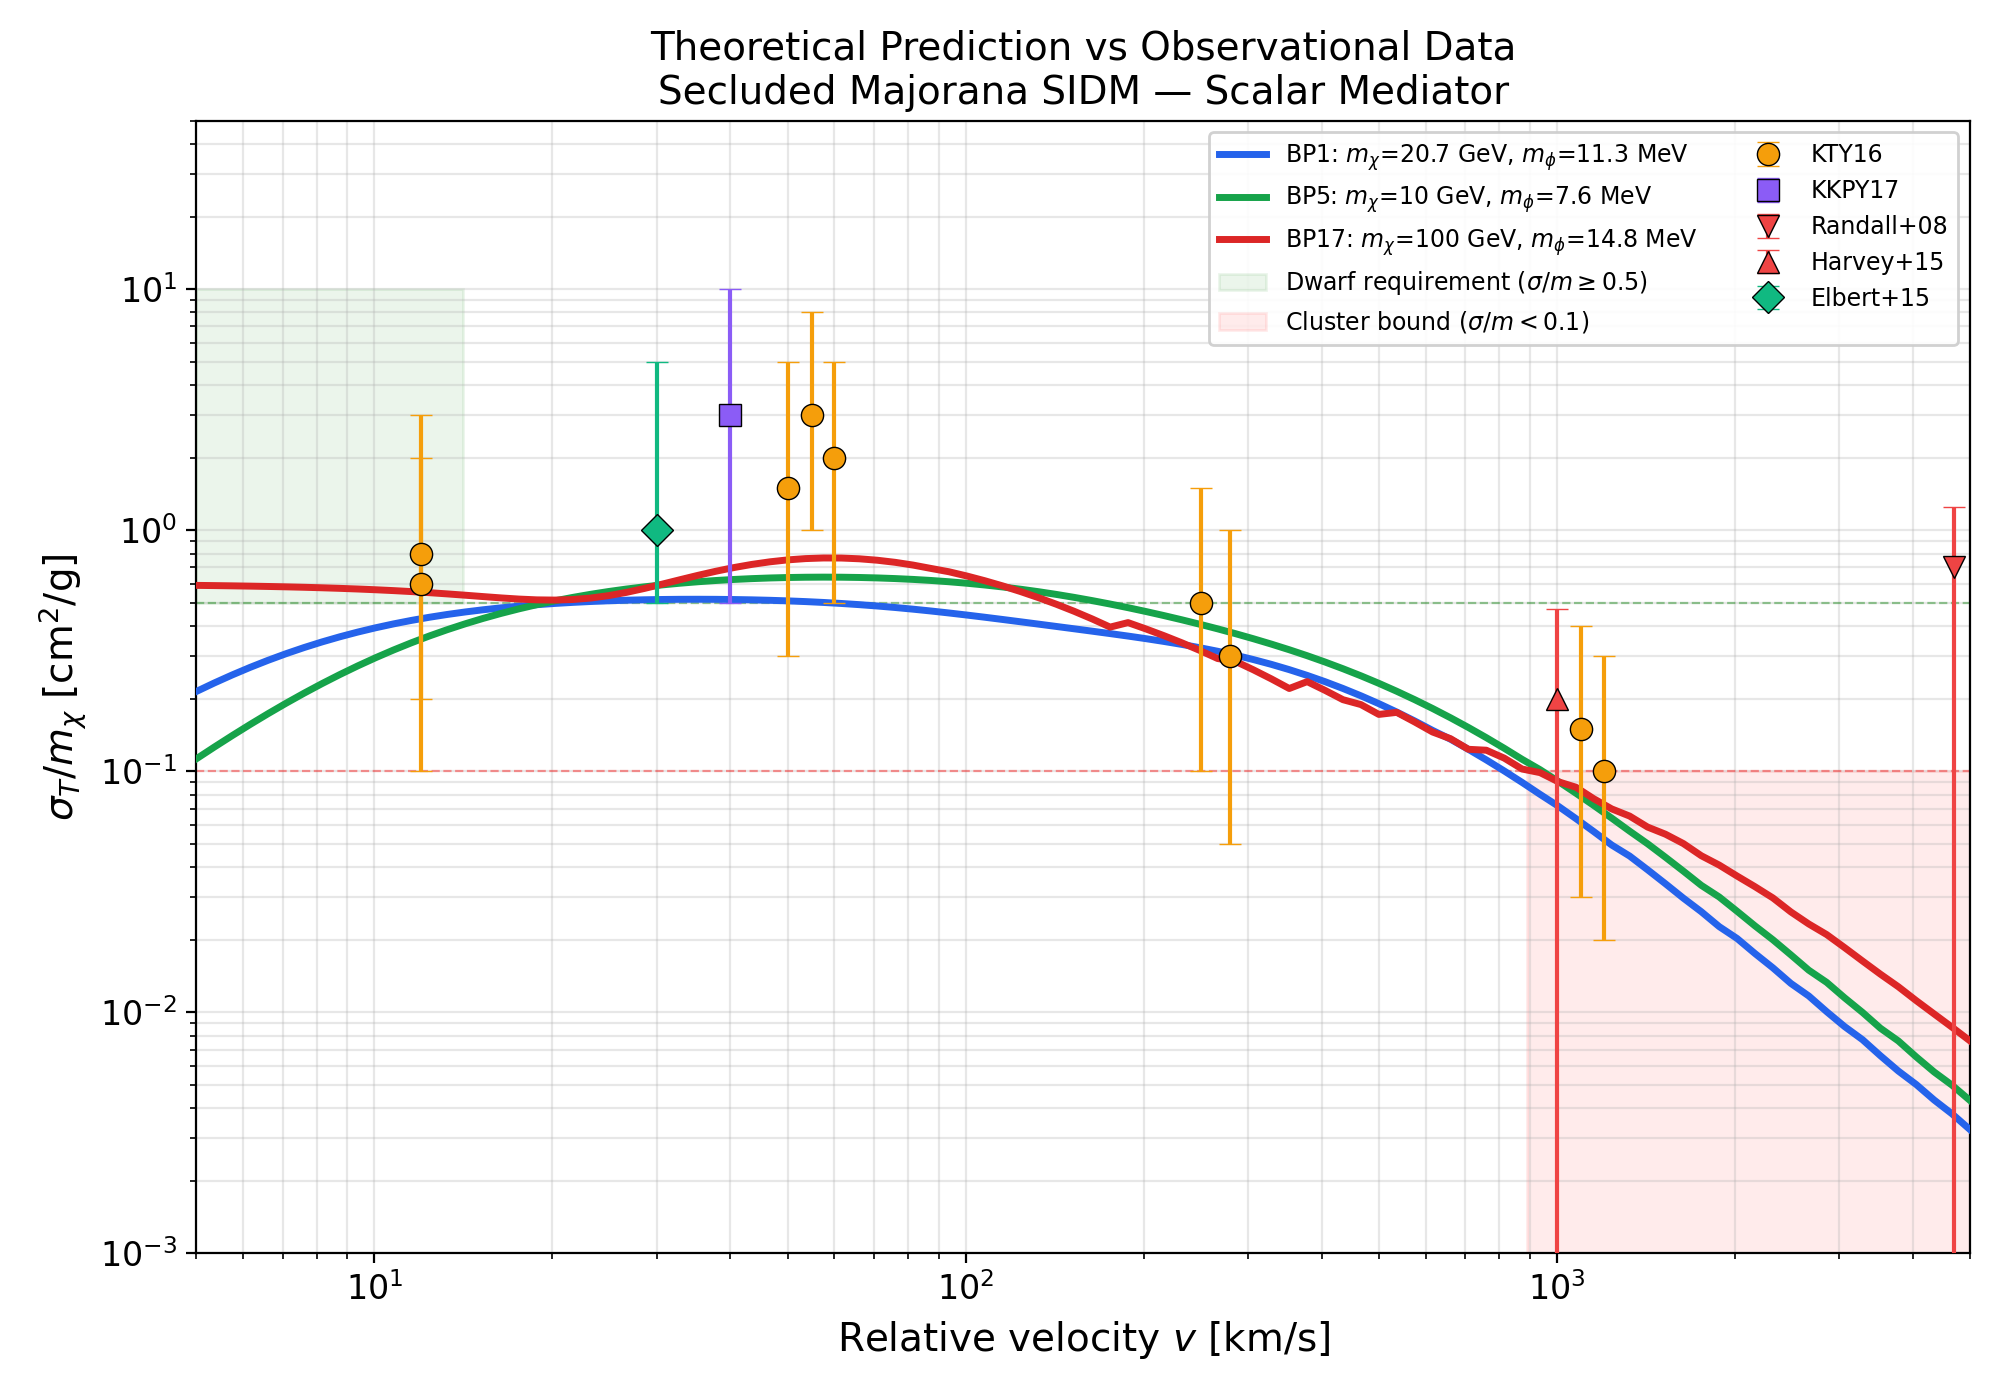
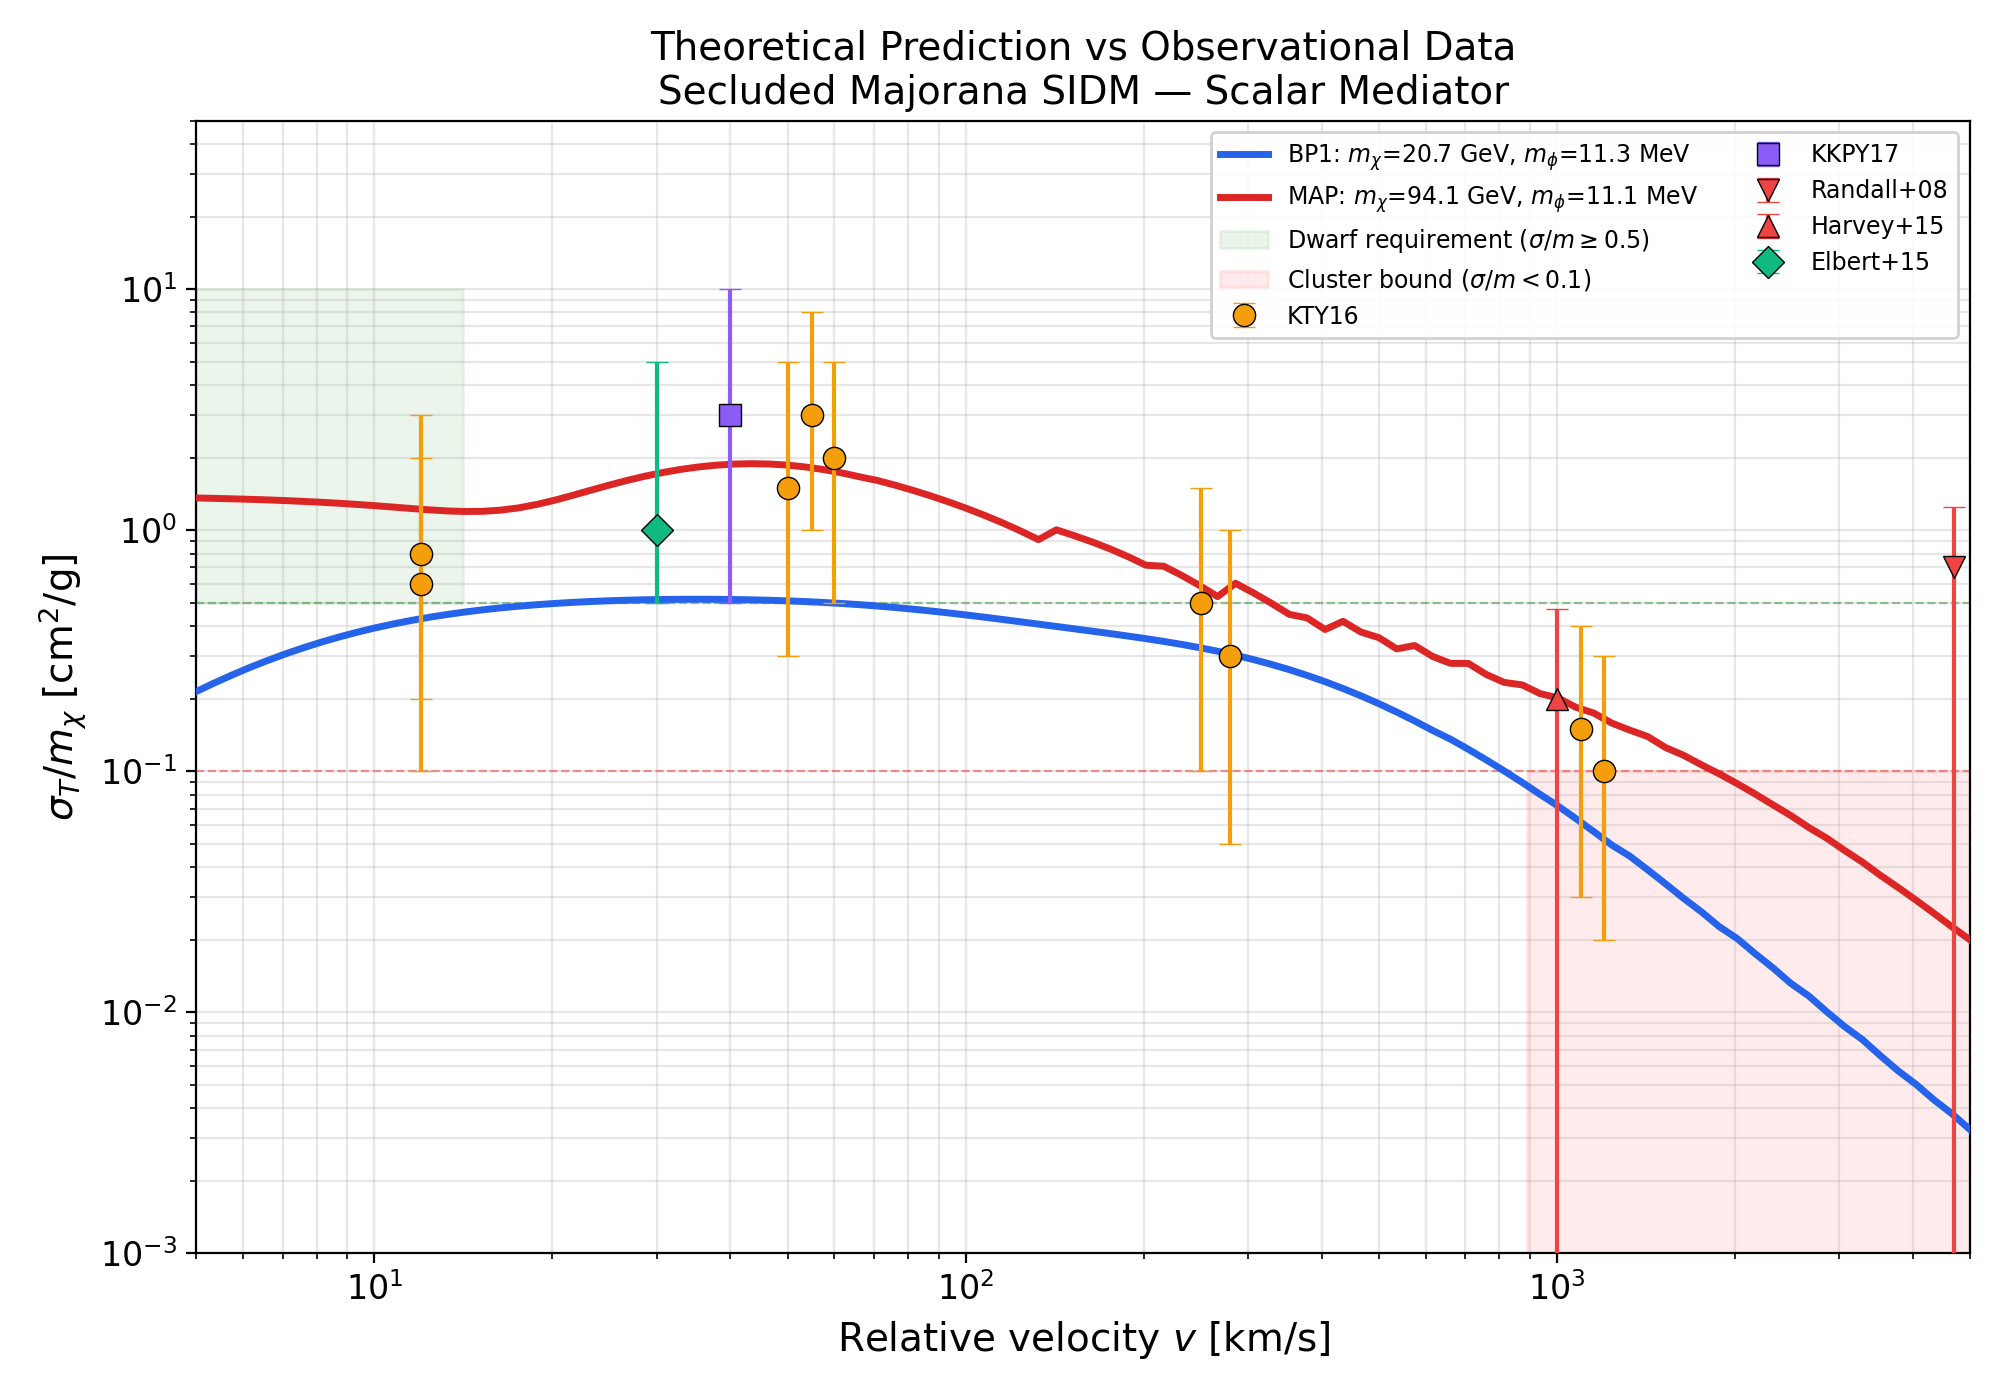
observations: dynamic benchmarks from config + Harvey default fix
- observational_comparison.py & opusB: plot loop now iterates
  BENCHMARKS from config.json (was hardcoded BP1/BP5/BP17)
- Compatibility check runs for ALL benchmarks (BP1 + MAP)
- Harvey+15 _DEFAULT_OBS fallback: 1500 -> 1000 in all 3 scripts
- Fresh v33 plot: BP1 (11/13) + MAP (13/13 compatible)

diff --git a/observations/observational_comparison.py b/observations/observational_comparison.py
@@ -61,7 +61,7 @@ _DEFAULT_OBS = [
     ("Abell 2537",        1100,   0.15, 0.03, 0.4,  "KTY16"),
     ("Diverse RC band",     40,   3.0,  0.5,  10.0, "KKPY17"),
     ("Bullet Cluster",    4700,   0.7,  0.0,  1.25, "Randall+08"),
-    ("72 cluster mergers", 1500,  0.2,  0.0,  0.47, "Harvey+15"),
+    ("72 cluster mergers", 1000,  0.2,  0.0,  0.47, "Harvey+15"),
     ("TBTF dwarfs",         30,   1.0,  0.5,  5.0,  "Elbert+15"),
 ]
 
@@ -132,42 +132,39 @@ def main():
         print(f"  {name:<25} {v:10.0f} {sm:8.2f} {lo:8.2f} {hi:8.2f} {ref:<12}")
     print()
 
-    # --- Compatibility check ---
-    print("  COMPATIBILITY CHECK (BP1 vs observations):")
-    print("  " + "-" * 60)
-    bp1_mc, bp1_mp, bp1_alpha = 20.69, 11.34e-3, 1.048e-3
-    n_compat = 0
-    n_total = len(OBSERVATIONS)
-    for name, v, sm_obs, lo, hi, ref in OBSERVATIONS:
-        sm_theory = sigma_T_vpm(bp1_mc, bp1_mp, bp1_alpha, float(v))
-        in_range = lo <= sm_theory <= hi
-        if in_range:
-            n_compat += 1
-            status = "COMPATIBLE"
-        else:
-            if sm_theory < lo:
-                status = f"BELOW (theory={sm_theory:.3f} < {lo:.2f})"
+    # --- Compatibility check (all benchmarks) ---
+    for bp_name, bp_mc, bp_mp, bp_alpha in BENCHMARKS:
+        print(f"  COMPATIBILITY CHECK ({bp_name} vs observations):")
+        print("  " + "-" * 60)
+        n_compat = 0
+        n_total = len(OBSERVATIONS)
+        for name, v, sm_obs, lo, hi, ref in OBSERVATIONS:
+            sm_theory = sigma_T_vpm(bp_mc, bp_mp, bp_alpha, float(v))
+            in_range = lo <= sm_theory <= hi
+            if in_range:
+                n_compat += 1
+                status = "COMPATIBLE"
             else:
-                status = f"ABOVE (theory={sm_theory:.3f} > {hi:.2f})"
-        print(f"  {name:<25} v={v:5.0f}  theory={sm_theory:.4f}  obs=[{lo:.2f},{hi:.2f}]  {status}")
+                if sm_theory < lo:
+                    status = f"BELOW (theory={sm_theory:.3f} < {lo:.2f})"
+                else:
+                    status = f"ABOVE (theory={sm_theory:.3f} > {hi:.2f})"
+            print(f"  {name:<25} v={v:5.0f}  theory={sm_theory:.4f}  obs=[{lo:.2f},{hi:.2f}]  {status}")
 
-    print()
-    print(f"  BP1 compatible with {n_compat}/{n_total} observations")
-    print()
+        print()
+        print(f"  {bp_name} compatible with {n_compat}/{n_total} observations")
+        print()
 
     # --- Generate Figure 3 ---
     fig, ax = plt.subplots(1, 1, figsize=(10, 7))
 
-    # Plot theoretical curves
-    colors = {'BP1': '#2563EB', 'BP5': '#16A34A', 'BP17': '#DC2626'}
-    labels = {
-        'BP1': r'BP1: $m_\chi$=20.7 GeV, $m_\phi$=11.3 MeV',
-        'BP5': r'BP5: $m_\chi$=10 GeV, $m_\phi$=7.6 MeV',
-        'BP17': r'BP17: $m_\chi$=100 GeV, $m_\phi$=14.8 MeV',
-    }
-    for name in ['BP1', 'BP5', 'BP17']:
-        ax.plot(VELOCITIES, curves[name], color=colors[name],
-                linewidth=2.5, label=labels[name], zorder=5)
+    # Plot theoretical curves (dynamic from config benchmarks)
+    _palette = ['#2563EB', '#DC2626', '#16A34A', '#F59E0B', '#8B5CF6', '#6B7280']
+    for i, (bname, mc, mp, alpha) in enumerate(BENCHMARKS):
+        color = _palette[i % len(_palette)]
+        label = rf'{bname}: $m_\chi$={mc:.1f} GeV, $m_\phi$={mp*1e3:.1f} MeV'
+        ax.plot(VELOCITIES, curves[bname], color=color,
+                linewidth=2.5, label=label, zorder=5)
 
     # Plot observational data with error bars
     obs_colors = {

diff --git a/observations/opusB_observational_comparison.py b/observations/opusB_observational_comparison.py
@@ -127,42 +127,39 @@ def main():
         print(f"  {name:<25} {v:10.0f} {sm:8.2f} {lo:8.2f} {hi:8.2f} {ref:<12}")
     print()
 
-    # --- Compatibility check ---
-    print("  COMPATIBILITY CHECK (BP1 vs observations):")
-    print("  " + "-" * 60)
-    bp1_mc, bp1_mp, bp1_alpha = 20.69, 11.34e-3, 1.048e-3
-    n_compat = 0
-    n_total = len(OBSERVATIONS)
-    for name, v, sm_obs, lo, hi, ref in OBSERVATIONS:
-        sm_theory = sigma_T_vpm(bp1_mc, bp1_mp, bp1_alpha, float(v))
-        in_range = lo <= sm_theory <= hi
-        if in_range:
-            n_compat += 1
-            status = "COMPATIBLE"
-        else:
-            if sm_theory < lo:
-                status = f"BELOW (theory={sm_theory:.3f} < {lo:.2f})"
+    # --- Compatibility check (all benchmarks) ---
+    for bp_name, bp_mc, bp_mp, bp_alpha in BENCHMARKS:
+        print(f"  COMPATIBILITY CHECK ({bp_name} vs observations):")
+        print("  " + "-" * 60)
+        n_compat = 0
+        n_total = len(OBSERVATIONS)
+        for name, v, sm_obs, lo, hi, ref in OBSERVATIONS:
+            sm_theory = sigma_T_vpm(bp_mc, bp_mp, bp_alpha, float(v))
+            in_range = lo <= sm_theory <= hi
+            if in_range:
+                n_compat += 1
+                status = "COMPATIBLE"
             else:
-                status = f"ABOVE (theory={sm_theory:.3f} > {hi:.2f})"
-        print(f"  {name:<25} v={v:5.0f}  theory={sm_theory:.4f}  obs=[{lo:.2f},{hi:.2f}]  {status}")
+                if sm_theory < lo:
+                    status = f"BELOW (theory={sm_theory:.3f} < {lo:.2f})"
+                else:
+                    status = f"ABOVE (theory={sm_theory:.3f} > {hi:.2f})"
+            print(f"  {name:<25} v={v:5.0f}  theory={sm_theory:.4f}  obs=[{lo:.2f},{hi:.2f}]  {status}")
 
-    print()
-    print(f"  BP1 compatible with {n_compat}/{n_total} observations")
-    print()
+        print()
+        print(f"  {bp_name} compatible with {n_compat}/{n_total} observations")
+        print()
 
     # --- Generate Figure 3 ---
     fig, ax = plt.subplots(1, 1, figsize=(10, 7))
 
-    # Plot theoretical curves
-    colors = {'BP1': '#2563EB', 'BP5': '#16A34A', 'BP17': '#DC2626'}
-    labels = {
-        'BP1': r'BP1: $m_\chi$=20.7 GeV, $m_\phi$=11.3 MeV',
-        'BP5': r'BP5: $m_\chi$=10 GeV, $m_\phi$=7.6 MeV',
-        'BP17': r'BP17: $m_\chi$=100 GeV, $m_\phi$=14.8 MeV',
-    }
-    for name in ['BP1', 'BP5', 'BP17']:
-        ax.plot(VELOCITIES, curves[name], color=colors[name],
-                linewidth=2.5, label=labels[name], zorder=5)
+    # Plot theoretical curves (dynamic from config benchmarks)
+    _palette = ['#2563EB', '#DC2626', '#16A34A', '#F59E0B', '#8B5CF6', '#6B7280']
+    for i, (bname, mc, mp, alpha) in enumerate(BENCHMARKS):
+        color = _palette[i % len(_palette)]
+        label = rf'{bname}: $m_\chi$={mc:.1f} GeV, $m_\phi$={mp*1e3:.1f} MeV'
+        ax.plot(VELOCITIES, curves[bname], color=color,
+                linewidth=2.5, label=label, zorder=5)
 
     # Plot observational data with error bars
     obs_colors = {

diff --git a/observations/chi2_fit.py b/observations/chi2_fit.py
@@ -56,7 +56,7 @@ _DEFAULT_OBS = [
     ("Abell 2537",        1100,   0.15, 0.03, 0.4,  "KTY16"),
     ("Diverse RC band",     40,   3.0,  0.5,  10.0, "KKPY17"),
     ("Bullet Cluster",    4700,   0.7,  0.0,  1.25, "Randall+08"),
-    ("72 cluster mergers", 1500,  0.2,  0.0,  0.47, "Harvey+15"),
+    ("72 cluster mergers", 1000,  0.2,  0.0,  0.47, "Harvey+15"),
     ("TBTF dwarfs",         30,   1.0,  0.5,  5.0,  "Elbert+15"),
 ]
 
